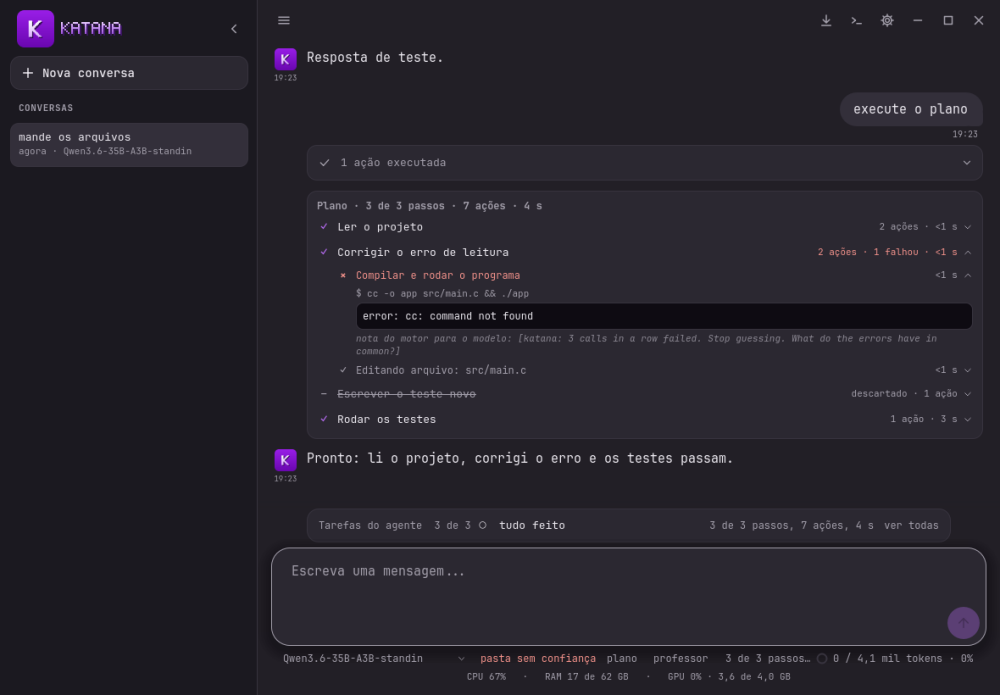
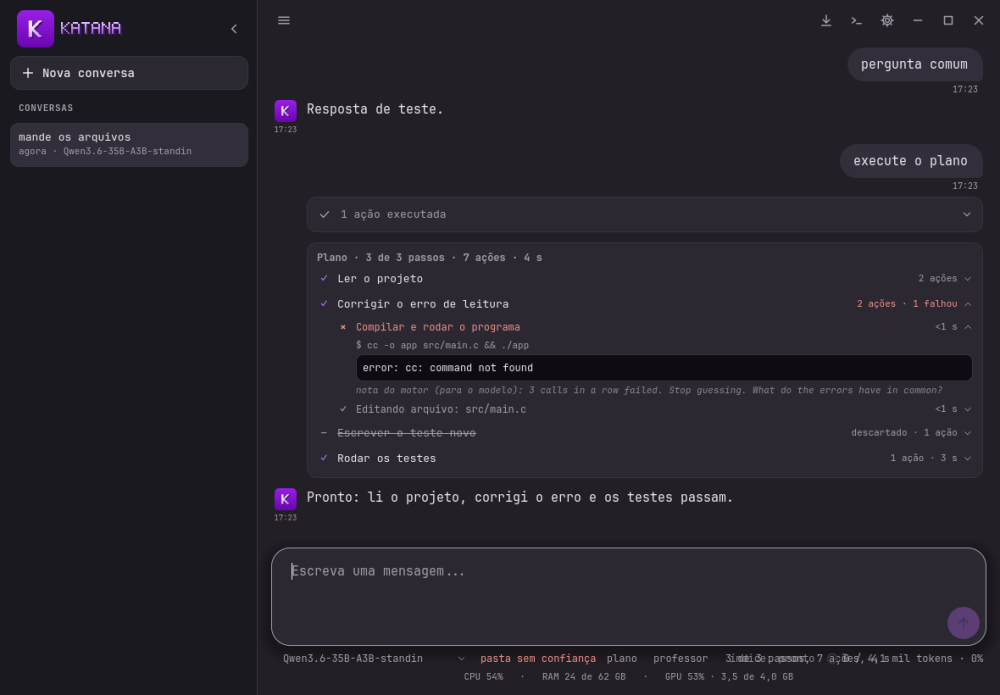
desktop: a lista de tarefas sai do cartao acima da caixa (o plano fica so na conversa); o cartao do modo plano continua com o botao de aprovar

diff --git a/desktop-qt/qml/Main.qml b/desktop-qt/qml/Main.qml
@@ -20,7 +20,7 @@ ApplicationWindow {
 
     readonly property bool narrow: width < 760
     property bool sideOpen: !backend.uiFlag("lateralRecolhida")
-    // altura dos cartoes acima da caixa de mensagem (tarefas do agente, pergunta): a conversa termina antes deles
+    // altura dos cartoes acima da caixa de mensagem (modo plano, pergunta): a conversa termina antes deles
     readonly property real cardsHeight: (workCard.visible ? workCard.height + 6 : 0) + (choiceCard.visible ? choiceCard.height + 6 : 0) + composer.queueHeight
     property bool drawerOpen: false
 
@@ -484,12 +484,11 @@ ApplicationWindow {
                     GradientStop { position: 1.0; color: Theme.bg }
                 }
             }
-            // lista de tarefas do agente e modo plano: cartao discreto acima da caixa de mensagem
+            // modo plano: cartao discreto acima da caixa de mensagem (a lista de tarefas fica so na conversa, no cartao do plano)
             Rectangle {
                 id: workCard
                 objectName: "workCard"
-                property bool open: false      // recolhido: uma linha com o passo atual; a lista inteira so quando o dono pede
-                visible: backend.todoSteps.length > 0 || backend.planMode
+                visible: backend.planMode
                 anchors.bottom: choiceCard.visible ? choiceCard.top : composer.top
                 anchors.bottomMargin: 6 + (choiceCard.visible ? 0 : composer.queueHeight)      // a fila de mensagens fica entre os cartoes e a caixa
                 anchors.horizontalCenter: parent.horizontalCenter
@@ -518,37 +517,6 @@ ApplicationWindow {
                                 color: apMa.containsMouse ? Theme.acfg : Theme.fg }
                             MouseArea { id: apMa; anchors.fill: parent; hoverEnabled: true; enabled: backend.ready; cursorShape: Qt.PointingHandCursor
                                 onClicked: backend.approvePlan() }
-                        }
-                    }
-                    Item {
-                        id: workHead
-                        objectName: "todoHeader"
-                        visible: backend.todoSteps.length > 0
-                        width: workCol.width
-                        height: visible ? 20 : 0
-                        readonly property int total: backend.todoSteps.length
-                        readonly property int doneCount: { var n = 0; for (var i = 0; i < backend.todoSteps.length; i++) if (backend.todoSteps[i].indexOf("[x]") === 0) n++; return n; }
-                        readonly property string current: { for (var i = 0; i < backend.todoSteps.length; i++) if (backend.todoSteps[i].indexOf("[x]") !== 0) return backend.todoSteps[i].slice(4); return "tudo feito"; }
-                        Text { id: workCount; anchors.verticalCenter: parent.verticalCenter; font.family: Theme.sans; color: Theme.mut; font.pixelSize: 12
-                            text: "Tarefas do agente  " + workHead.doneCount + " de " + workHead.total }
-                        Text { id: workStats; objectName: "workStats"; anchors.right: workToggle.left; anchors.rightMargin: 12; anchors.verticalCenter: parent.verticalCenter
-                            font.family: Theme.sans; color: Theme.mut; font.pixelSize: 12; text: backend.progressStats }
-                        Text { anchors.left: workCount.right; anchors.leftMargin: 10; anchors.right: workStats.left; anchors.rightMargin: 8; anchors.verticalCenter: parent.verticalCenter
-                            visible: !workCard.open; elide: Text.ElideRight; font.family: Theme.sans; color: Theme.fg; font.pixelSize: 13
-                            text: "\u25CB  " + workHead.current }
-                        Text { id: workToggle; anchors.right: parent.right; anchors.verticalCenter: parent.verticalCenter; font.family: Theme.sans; color: Theme.mut; font.pixelSize: 12
-                            text: workCard.open ? "recolher" : "ver todas" }
-                        MouseArea { anchors.fill: parent; cursorShape: Qt.PointingHandCursor; onClicked: workCard.open = !workCard.open }
-                    }
-                    Repeater {
-                        model: workCard.open ? backend.todoSteps : []
-                        Text {
-                            readonly property bool done: modelData.indexOf("[x]") === 0
-                            width: workCol.width; wrapMode: Text.Wrap
-                            font.family: Theme.sans; font.pixelSize: 13
-                            color: done ? Theme.mut : Theme.fg
-                            font.strikeout: done
-                            text: (done ? "\u2713  " : "\u25CB  ") + modelData.slice(4)
                         }
                     }
                 }

diff --git a/desktop-qt/src/selftest.cpp b/desktop-qt/src/selftest.cpp
@@ -720,7 +720,7 @@ int runStandinTest(Backend &be, QQuickWindow *win, const QString &capDir)
         QList<QQuickItem *> rows;
         waitFor([&] { rows.clear(); findAll(c.item("planView"), "actionRow", rows); return !rows.isEmpty(); }, 3000);
         QQuickItem *ws = c.item("workStats");
-        check(ws && ws->property("text").toString().contains("ações") && ws->property("text").toString().contains(" · "), "cartao das tarefas mostra tempo e acoes enquanto roda: " + (ws ? ws->property("text").toString() : QString()));
+        check(!ws && !c.item("todoHeader") && !c.item("workCard")->isVisible(), "a lista de tarefas nao aparece acima da caixa (so na conversa)");
         bool runningDesc = false;
         for (QQuickItem *r : rows)
             if (r->property("running").toBool() && r->property("title").toString() == "Rodar a suite de testes") runningDesc = true;
@@ -759,7 +759,7 @@ int runStandinTest(Backend &be, QQuickWindow *win, const QString &capDir)
         check(steps[0].toMap()["actions"].toList().value(0).toMap()["desc"].toString() == "Listar os arquivos da pasta", "descricao da chamada guardada");
         check(be.progressText().startsWith("3 de 3 passos, 7 ações, "), "resumo do pedido: " + be.progressText());
         check(sline->property("text").toString() == be.progressText(), "resumo na linha de estado");
-        check(c.item("workStats")->property("text").toString() == be.progressText(), "resumo tambem no cartao das tarefas");
+        check(!c.item("workCard")->isVisible(), "depois do pedido continua sem cartao de tarefas acima da caixa");
         // o plano na tela: passos feitos recolhidos, nenhuma acao aberta
         rows.clear(); findAll(c.item("planView"), "actionRow", rows);
         check(rows.isEmpty(), "passos feitos recolhidos em uma linha");

diff --git a/desktop-qt/README.md b/desktop-qt/README.md
@@ -68,9 +68,9 @@ Working folder: the button next to the model selector shows the agent's folder a
 
 Sudo: the agent runs as your normal user; root only enters when a command asks for `sudo` (in a `Bash` command) (`KATANA_SUDO=1` makes everything run as root). When it needs the password, the engine emits the marker `NEEDPASS` (`NEEDPASS retry` after a wrong one); the desktop opens a password dialog and answers with `\x01PASS <password>` (empty = cancel). The password stays only in the agent's memory and is not sent to the model or the history. In the terminal (`katana agent`) it is asked on screen, without echo.
 
-Plan and activities in the conversation: the marker `TOOL <name>\t<arguments>[\t<description>]` carries the short description the model gave the call; the app shows it as the main line of the action (with a spinner and the elapsed time while it runs, the duration and an ok or failed mark after) and keeps the command as a second line that opens on click; without a description the line is the verb plus the target, as before. A result that starts with `error:` or reports an exit code other than 0 counts as failed (the engine's own rule). When the model writes a task list (`TODO`), the request gets a plan card (`PlanView.qml`, backed by `MessageModel`): the actions are grouped under the step that was in progress when they ran (the marker has no status, so the first undone step is the one in progress); done steps collapse to one line ("N ações · time", click to open), the step in progress is open, pending ones are dimmed. When the list changes, a step with the same text is the same step, a different text at the same position is a reworded step (it keeps its actions), a new text is a new step and a step that left the list stays as "descartado" with its actions. Calls that only manage the plan (`TodoWrite`) are hidden and not counted. Notes the engine appends to a result (`[katana: ...]`, `[plan: ...]`) are for the model: they are cut out of the output and shown dimmed, only in the opened action. The status line and the task card above the box show "passo 2 de 6: text", the elapsed time and the number of actions while the request runs, and "6 de 6 passos, 23 ações, 4 min" at the end; a request with no plan shows only the time and the count. Sessions keep, per call, the description, mark, duration and step, plus the plan as an extra `plan` message (JSON: steps with id, text, status, start and end of the request), so an opened session regroups the same way; the tool output is not stored and a plan that was only carried over from an earlier request is not regrouped. Covered by `--selftest-standin` (`execute o plano` in `tools/standin-engine.sh`).
+Plan and activities in the conversation: the marker `TOOL <name>\t<arguments>[\t<description>]` carries the short description the model gave the call; the app shows it as the main line of the action (with a spinner and the elapsed time while it runs, the duration and an ok or failed mark after) and keeps the command as a second line that opens on click; without a description the line is the verb plus the target, as before. A result that starts with `error:` or reports an exit code other than 0 counts as failed (the engine's own rule). When the model writes a task list (`TODO`), the request gets a plan card (`PlanView.qml`, backed by `MessageModel`): the actions are grouped under the step that was in progress when they ran (the marker has no status, so the first undone step is the one in progress); done steps collapse to one line ("N ações · time", click to open), the step in progress is open, pending ones are dimmed. When the list changes, a step with the same text is the same step, a different text at the same position is a reworded step (it keeps its actions), a new text is a new step and a step that left the list stays as "descartado" with its actions. Calls that only manage the plan (`TodoWrite`) are hidden and not counted. Notes the engine appends to a result (`[katana: ...]`, `[plan: ...]`) are for the model: they are cut out of the output and shown dimmed, only in the opened action. The status line under the box shows "passo 2 de 6: text", the elapsed time and the number of actions while the request runs, and "6 de 6 passos, 23 ações, 4 min" at the end; a request with no plan shows only the time and the count. Sessions keep, per call, the description, mark, duration and step, plus the plan as an extra `plan` message (JSON: steps with id, text, status, start and end of the request), so an opened session regroups the same way; the tool output is not stored and a plan that was only carried over from an earlier request is not regrouped. Covered by `--selftest-standin` (`execute o plano` in `tools/standin-engine.sh`).
 
-Task list, plan mode and undo: the marker `TODO <steps>` fills a card above the message box with the agent's own steps (done ones struck through); `MODE plan` shows the plan-mode line with the "Aprovar e executar" button (`/go`); the "plano" and "desfazer" buttons next to the folder button send `/plan` and `/undo`, and `UNDO <n>\t<files>` becomes a notice.
+Task list, plan mode and undo: the marker `TODO <steps>` fills the plan card in the conversation (the list is shown only there, not in a second card above the message box); `MODE plan` shows the plan-mode card above the box, with the plan-mode line with the "Aprovar e executar" button (`/go`); the "plano" and "desfazer" buttons next to the folder button send `/plan` and `/undo`, and `UNDO <n>\t<files>` becomes a notice.
 
 Teacher mode: the "professor" button beside "plano" sends `/teacher on` (or `/teacher <model>`) or `/teacher off`; with it on, a larger model answers in place of the local one with the same tools, and its answers are kept as training data (`katana export --teacher`). The model is reached through an external teacher plugin (`docs/teacher-protocol.md`, `plugins/`); the settings popup has the dialog for an API key (stored in `~/.katana/teacher.key`, owner only; what the key is for depends on the plugin) and the model name (empty: the plugin default). Markers: `TEACHER 0|1 <model>`, `TEACHERR <code> <message>`. The conversation and the tool results are handed to the plugin while it is on.
 
